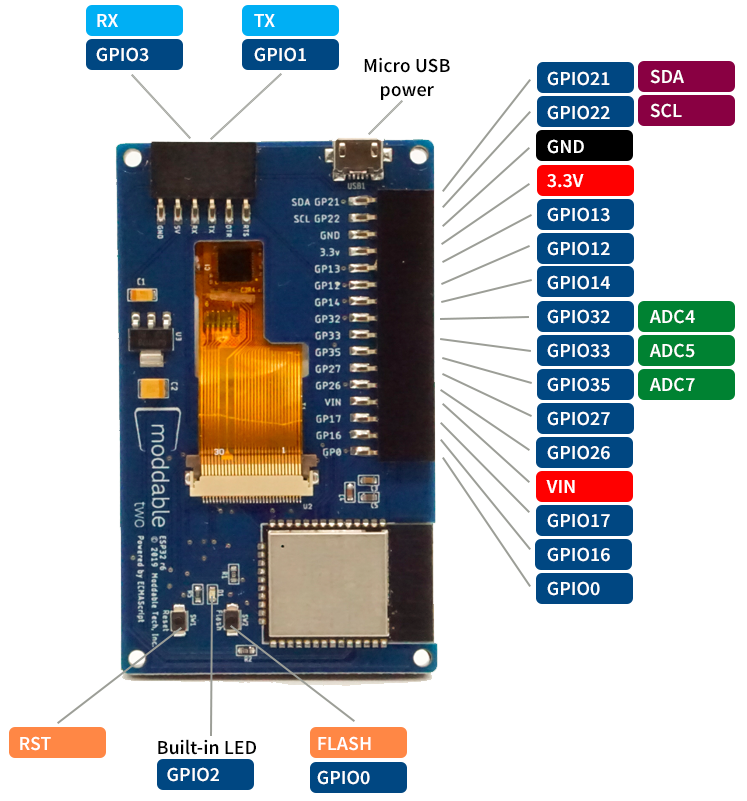
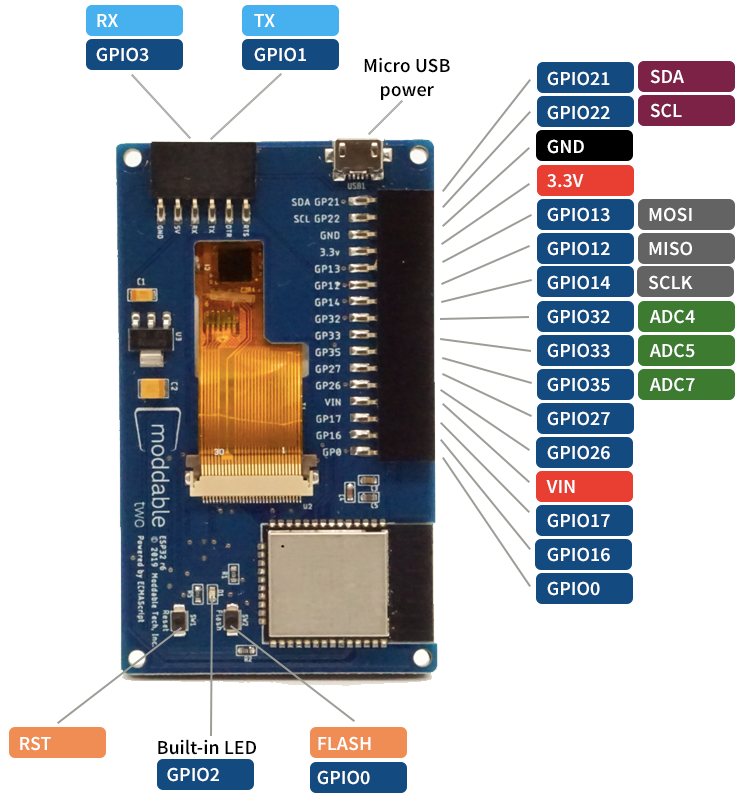
update moddable one and moddable two docs

diff --git a/documentation/devices/moddable-one.md b/documentation/devices/moddable-one.md
@@ -1,7 +1,7 @@
 # Getting Started with Moddable One
 
 Copyright 2019-2020 Moddable Tech, Inc.<BR>
-Revised: February 27, 2020
+Revised: September 14, 2020
 
 This document describes how to start building Moddable applications for Moddable One. It provides information on how to configure the host build environment and how to build and deploy apps. It also provides information about development resources, including a summary of the examples available in this repository that run on Moddable One.
 
@@ -35,6 +35,19 @@ The two main components of Moddable One are the ESP8266 module and capacitive to
 ### Pinout
 
 <img src="../assets/devices/moddable-one-pinout.png">
+
+
+#### Touch panel
+
+The touch panel uses pins 4 and 5 to connect to the I<sup>2</sup>C bus. You cannot use these pins as GPIO if your app uses the touch panel.
+
+You can use other I<sup>2</sup>C sensors even if your app uses the touch panel as long as they don't use the same address. The touch panel uses address 0x38 (7-bit address).
+
+#### Display
+
+The display uses pins 13 and 14 to connect to the SPI bus. You cannot use these pins as GPIO if your app uses the display.
+
+You can use other SPI sensors even if your app uses the display.
 
 <a id="setup"></a>
 ## SDK and Host Environment Setup

diff --git a/documentation/devices/moddable-two.md b/documentation/devices/moddable-two.md
@@ -1,7 +1,7 @@
 # Getting Started with Moddable Two
 
 Copyright 2019-2020 Moddable Tech, Inc.<BR>
-Revised: August 25, 2020
+Revised: September 14, 2020
 
 This document describes how to start building Moddable applications for Moddable Two. It provides information on how to configure the host build environment and how to build and deploy apps. It also provides information about development resources, including a summary of the examples available in this repository that run on Moddable Two.
 
@@ -37,6 +37,18 @@ The two main components of Moddable Two are the ESP32 module and capacitive touc
 ### Pinout
 
 <img src="../assets/devices/moddable-two-pinout.png">
+
+#### Touch panel
+
+The touch panel uses pins 21 and 22 to connect to the I<sup>2</sup>C bus. You cannot use these pins as GPIO if your app uses the touch panel.
+
+You can use other I<sup>2</sup>C sensors even if your app uses the touch panel as long as they don't use the same address. The touch panel uses address 0x38 (7-bit address).
+
+#### Display
+
+The display uses pins 13 and 14 to connect to the SPI bus. You cannot use these pins as GPIO if your app uses the display.
+
+You can use other SPI sensors even if your app uses the display.
 
 <a id="pin-info"></a>
 ### Pin Information
